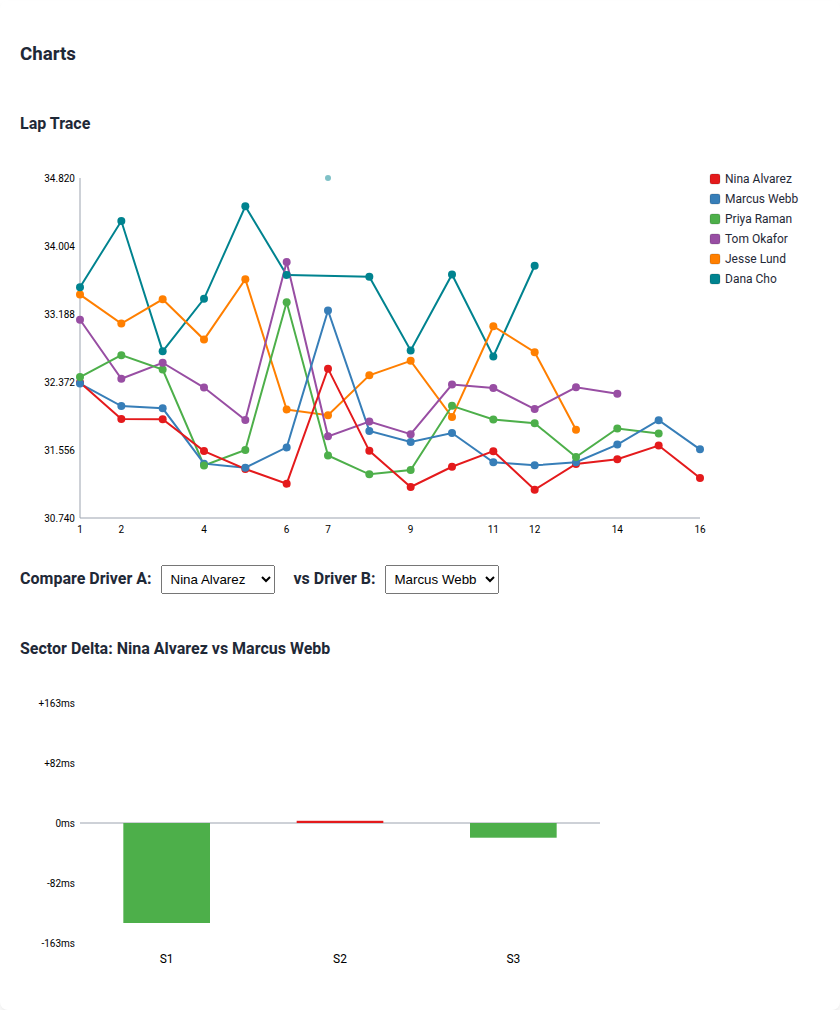
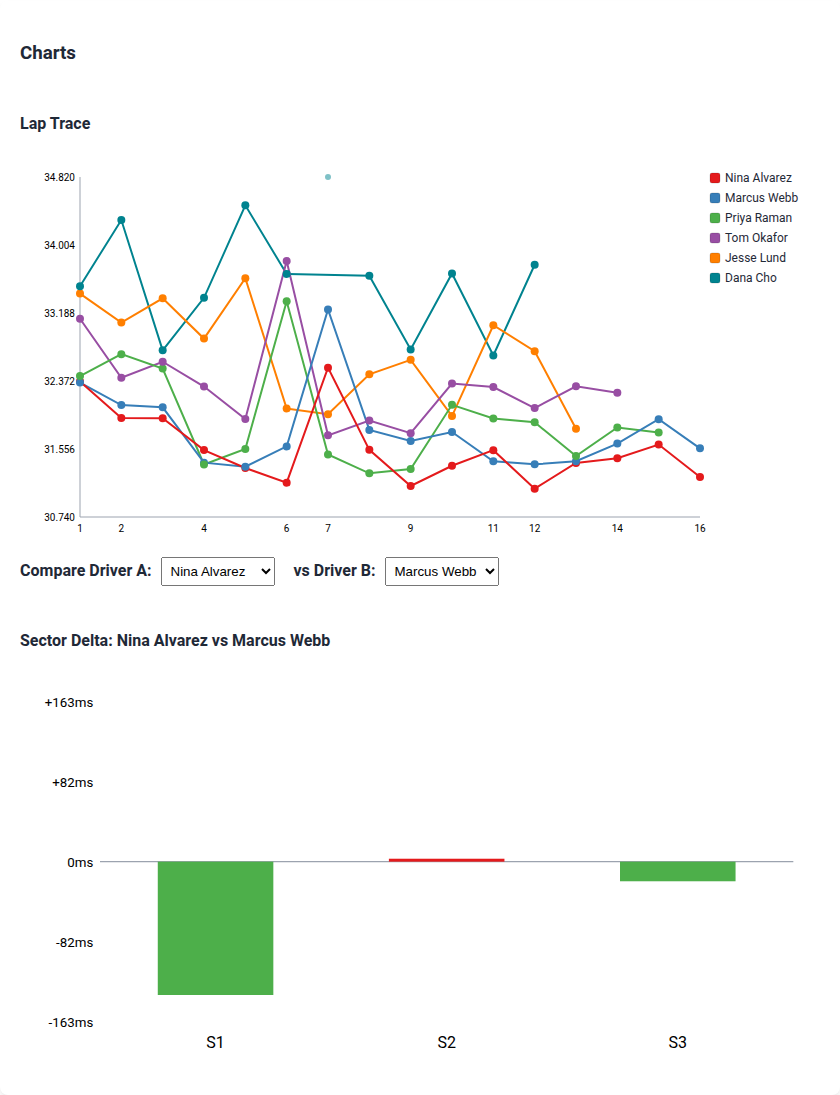
feat: fold the features into About Apex, refresh the copyright year
- The seven features move into the About Apex section as a compact
  two-column grid, so the page opens on the demo picker instead of pushing
  it below a tall list. On a phone the grid collapses to one column. The
  standalone Features section is gone.
- The footer year is filled in at runtime by src/ui/footer.js, with 2026 in
  the markup as a fallback, so the copyright stops going stale.

Also fixes horizontal scrolling on phones, which the demo picker shipped
with: the long select option text set a minimum width the page could not
shrink below, and once a race was loaded the eight-column leaderboard and
the replay bar widened it further. At 375px the document was 618px wide
empty and 814px with data.

- main and section can now shrink below their content width.
- The leaderboard table scrolls inside a .table-scroll wrapper.
- Charts drop their fixed pixel width and scale via viewBox.
- The replay bar wraps and its scrubber can shrink.

Tests: 87 passing. New cases assert the features live in About Apex, the
footer shows the current year, and the page does not scroll sideways at 320,
375, 414 and 768px with a race and a trace loaded.

diff --git a/tests/homepage.spec.js b/tests/homepage.spec.js
@@ -45,11 +45,12 @@ test.describe('Homepage', () => {
     await expect(summarySection.locator('p')).toContainText('Apex is a client-side web application');
   });
 
-  test('displays features section', async ({ page }) => {
-    const featuresSection = page.locator('main section.features');
-    await expect(featuresSection.locator('h2')).toHaveText('Features');
+  test('lists the features inside About Apex', async ({ page }) => {
+    // The features live in the About section rather than a section of their own.
+    await expect(page.locator('main section.features')).toHaveCount(0);
 
-    const listItems = featuresSection.locator('ul li');
+    const summarySection = page.locator('main section.summary');
+    const listItems = summarySection.locator('ul.feature-list li');
     // These must stay in sync with the Features list in README.md.
     const expectedTexts = [
       'Local CSV Upload:',
@@ -68,7 +69,8 @@ test.describe('Homepage', () => {
 
   test('displays the footer', async ({ page }) => {
     const footer = page.locator('footer p');
-    await expect(footer).toHaveText('© 2023 Apex Karting');
+    // The year is filled in at runtime so the copyright cannot go stale.
+    await expect(footer).toHaveText(`© ${new Date().getFullYear()} Apex Karting`);
   });
 
   test('is responsive on mobile viewports', async ({ page }) => {
@@ -80,10 +82,57 @@ test.describe('Homepage', () => {
     const summarySection = page.locator('main section.summary');
     await expect(summarySection).toBeVisible();
 
-    const featuresSection = page.locator('main section.features');
-    await expect(featuresSection).toBeVisible();
+    const featureList = page.locator('main section.summary ul.feature-list');
+    await expect(featureList).toBeVisible();
 
     const footer = page.locator('footer p');
     await expect(footer).toBeVisible();
   });
+});
+test.describe('Footer year', () => {
+  test('renders the current year, not a hardcoded one', async ({ page }) => {
+    await page.goto('/');
+
+    const year = String(new Date().getFullYear());
+    await expect(page.locator('#footer-year')).toHaveText(year);
+    // The markup fallback should never be an older year than the one shown.
+    const fallback = await page.evaluate(() => {
+      const html = document.documentElement.outerHTML;
+      const match = html.match(/id="footer-year">(\d{4})</);
+      return match ? match[1] : null;
+    });
+    expect(Number(fallback)).toBeGreaterThanOrEqual(2026);
+  });
+});
+
+test.describe('No horizontal overflow', () => {
+  // A wide select, the eight-column leaderboard and the replay bar have all
+  // pushed the page sideways on a phone before; each now shrinks or scrolls
+  // inside its own container.
+  for (const width of [320, 375, 414, 768]) {
+    test(`page does not scroll sideways at ${width}px, with data loaded`, async ({ page }) => {
+      await page.setViewportSize({ width, height: 800 });
+      await page.goto('/');
+
+      await page.locator('#demo-race-load').click();
+      await expect(page.locator('table.leaderboard-table')).toBeVisible();
+      await page.locator('#demo-trace-load').click();
+      await expect(page.locator('#map-panel .map-svg')).toBeVisible();
+
+      const { scrollWidth, innerWidth } = await page.evaluate(() => ({
+        scrollWidth: document.documentElement.scrollWidth,
+        innerWidth: window.innerWidth,
+      }));
+      expect(scrollWidth, `page is ${scrollWidth - innerWidth}px too wide`).toBeLessThanOrEqual(
+        innerWidth + 1
+      );
+
+      // The wide table stays reachable by scrolling its own wrapper.
+      const scrollable = await page
+        .locator('.table-scroll')
+        .first()
+        .evaluate((el) => el.scrollWidth > el.clientWidth || el.clientWidth >= el.scrollWidth);
+      expect(scrollable).toBe(true);
+    });
+  }
 });

diff --git a/src/styles/style.css b/src/styles/style.css
@@ -44,11 +44,16 @@ main {
     margin: 40px auto;
     padding: 0 20px;
     flex: 1;
+    /* Without this, main cannot shrink below its content's intrinsic width, and
+       a wide child (a select with long option text) makes the whole page scroll
+       sideways on a phone. */
+    min-width: 0;
     display: grid;
     gap: 30px;
 }
 
 section {
+    min-width: 0;
     background: var(--card-bg);
     padding: 30px;
     border-radius: 8px;
@@ -75,6 +80,30 @@ ul li {
     border-left: 4px solid var(--primary-color);
 }
 
+/* Feature list inside About Apex: compact, two columns when there is room, so
+   seven features do not push the app below the fold. */
+.feature-list {
+    display: grid;
+    grid-template-columns: repeat(auto-fit, minmax(270px, 1fr));
+    gap: 8px 24px;
+    margin: 18px 0 0;
+}
+
+.feature-list li {
+    background: none;
+    margin: 0;
+    padding: 2px 0 2px 12px;
+    border-radius: 0;
+    border-left: 3px solid var(--primary-color);
+    font-size: 14px;
+    line-height: 1.5;
+    color: var(--secondary-text-color);
+}
+
+.feature-list li strong {
+    color: var(--text-color);
+}
+
 /* --- Footer --- */
 footer {
     background: var(--text-color);
@@ -99,13 +128,17 @@ footer {
 }
 
 .demo-control label {
+    flex: 0 0 auto;
     min-width: 80px;
     font-weight: bold;
 }
 
 .demo-control select {
-    flex: 1;
-    min-width: 240px;
+    /* flex-basis rather than min-width, so a narrow viewport can shrink the
+       control instead of forcing the whole page to scroll sideways. */
+    flex: 1 1 220px;
+    min-width: 0;
+    max-width: 100%;
     padding: 8px 10px;
     border: 1px solid #d1d5db;
     border-radius: 6px;
@@ -236,6 +269,12 @@ footer {
     padding: 10px 15px;
 }
 
+/* Horizontal scroll container for the wide leaderboard table. */
+.table-scroll {
+    overflow-x: auto;
+    -webkit-overflow-scrolling: touch;
+}
+
 /* Leaderboard Table Styles */
 .leaderboard-table {
     width: 100%;
@@ -330,6 +369,13 @@ footer {
     stroke-width: 1;
 }
 
+.lap-trace-svg,
+.sector-delta-svg {
+    display: block;
+    width: 100%;
+    height: auto;
+}
+
 .chart-tooltip {
     position: absolute;
     display: none;
@@ -394,16 +440,20 @@ footer {
     align-items: center;
     gap: 10px;
     color: #fff;
+    /* Wrap on a phone rather than widening the page. */
+    flex-wrap: wrap;
 }
 
 .replay-scrubber {
-    flex: 1;
+    flex: 1 1 140px;
+    min-width: 0;
 }
 
 .replay-delta {
     font-weight: bold;
-    min-width: 100px;
+    min-width: 90px;
     text-align: right;
+    margin-left: auto;
 }
 
 .positive-delta {

diff --git a/src/index.html b/src/index.html
@@ -14,15 +14,11 @@
         <p class="tagline">Analyze your karting performance with dynamic leaderboards and charts.</p>
     </header>
     <main>
-        <!-- Summary Section -->
+        <!-- Summary Section, including the feature list -->
         <section class="summary">
             <h2>About Apex</h2>
             <p>Apex is a client-side web application designed to parse, analyze, and visualize karting telemetry data. Upload your session data to uncover insights.</p>
-        </section>
-        <!-- Features Section -->
-        <section class="features">
-            <h2>Features</h2>
-            <ul>
+            <ul class="feature-list">
                 <li><strong>Local CSV Upload:</strong> Process telemetry data entirely on the client.</li>
                 <li><strong>Dynamic Leaderboard:</strong> View best laps, theoretical bests, median lap times, and consistency scores.</li>
                 <li><strong>Visualizations:</strong> Compare driver performance through lap trace and sector delta charts.</li>
@@ -74,9 +70,10 @@
     </main>
     <!-- Footer Section -->
     <footer>
-        <p>&copy; 2023 Apex Karting</p>
+        <p>&copy; <span id="footer-year">2026</span> Apex Karting</p>
     </footer>
     <script type="module" src="ui/upload.js"></script>
     <script type="module" src="ui/demo.js"></script>
+    <script type="module" src="ui/footer.js"></script>
 </body>
 </html>

diff --git a/src/ui/charts.js b/src/ui/charts.js
@@ -158,9 +158,10 @@ function renderLapTraceChart(container, session, stats, colors) {
 
   // Create SVG element using string concatenation (Vanilla JS, no React/D3)
   const svg = document.createElementNS('http://www.w3.org/2000/svg', 'svg');
-  svg.setAttribute('width', width);
-  svg.setAttribute('height', height);
+  // A viewBox with no fixed pixel width lets the chart scale down on narrow
+  // screens rather than forcing the page to scroll sideways.
   svg.setAttribute('viewBox', `0 0 ${width} ${height}`);
+  svg.setAttribute('preserveAspectRatio', 'xMidYMid meet');
   svg.classList.add('lap-trace-svg');
 
   // Axes
@@ -403,9 +404,8 @@ function renderSectorDeltaChart(container, session, stats, driverA, driverB) {
   const yScale = (delta) => margin.top + chartHeight / 2 - (delta / maxDelta) * (chartHeight / 2);
 
   const svg = document.createElementNS('http://www.w3.org/2000/svg', 'svg');
-  svg.setAttribute('width', width);
-  svg.setAttribute('height', height);
   svg.setAttribute('viewBox', `0 0 ${width} ${height}`);
+  svg.setAttribute('preserveAspectRatio', 'xMidYMid meet');
   svg.classList.add('sector-delta-svg');
 
   // Center axis

diff --git a/src/ui/footer.js b/src/ui/footer.js
@@ -1,0 +1,21 @@
+/**
+ * Footer year (DOM layer).
+ *
+ * Keeps the copyright current instead of hardcoding a year that goes stale.
+ * The markup ships with a sensible fallback in case scripts do not run.
+ */
+
+/**
+ * Writes the current year into the footer.
+ * @param {Date} [now=new Date()] - Injectable for testing.
+ */
+export function updateFooterYear(now = new Date()) {
+  const target = document.getElementById('footer-year');
+  if (target) target.textContent = String(now.getFullYear());
+}
+
+if (document.readyState === 'loading') {
+  document.addEventListener('DOMContentLoaded', () => updateFooterYear());
+} else {
+  updateFooterYear();
+}

diff --git a/src/ui/leaderboard.js b/src/ui/leaderboard.js
@@ -169,7 +169,13 @@ export function renderLeaderboard(container, session) {
   headerWrapper.textContent = `${session.track} - ${session.date}`;
 
   container.appendChild(headerWrapper);
-  container.appendChild(table);
+
+  // The table has eight columns, so on a narrow screen it scrolls inside its own
+  // wrapper instead of making the whole page scroll sideways.
+  const scroller = document.createElement('div');
+  scroller.className = 'table-scroll';
+  scroller.appendChild(table);
+  container.appendChild(scroller);
 
   renderCharts(container, session, stats);
 }

diff --git a/AGENTS.md b/AGENTS.md
@@ -14,6 +14,9 @@ Apex is a client-side karting telemetry and leaderboard app. It handles parsing 
   - `src/ui/` owns element creation and event wiring, and imports its maths from `src/lib/`.
 - **Docs**: The README feature list is the source of truth. Any feature it lists must be reachable in the running UI and covered by a test.
 - **Styling**: No inline `style` attributes or inline style strings; add classes to `src/styles/style.css`.
+- **Layout**: The page must not scroll sideways at 320px. Wide content (the
+  leaderboard table, charts, the replay bar) shrinks or scrolls inside its own
+  container; tests assert this at several viewport widths.
 
 ## How to Run
 Since there is no build step, you can run the app by serving the `src` directory using any local web server (e.g., `npm start`, `npx serve src`, or `python3 -m http.server -d src`) and opening `index.html`.
